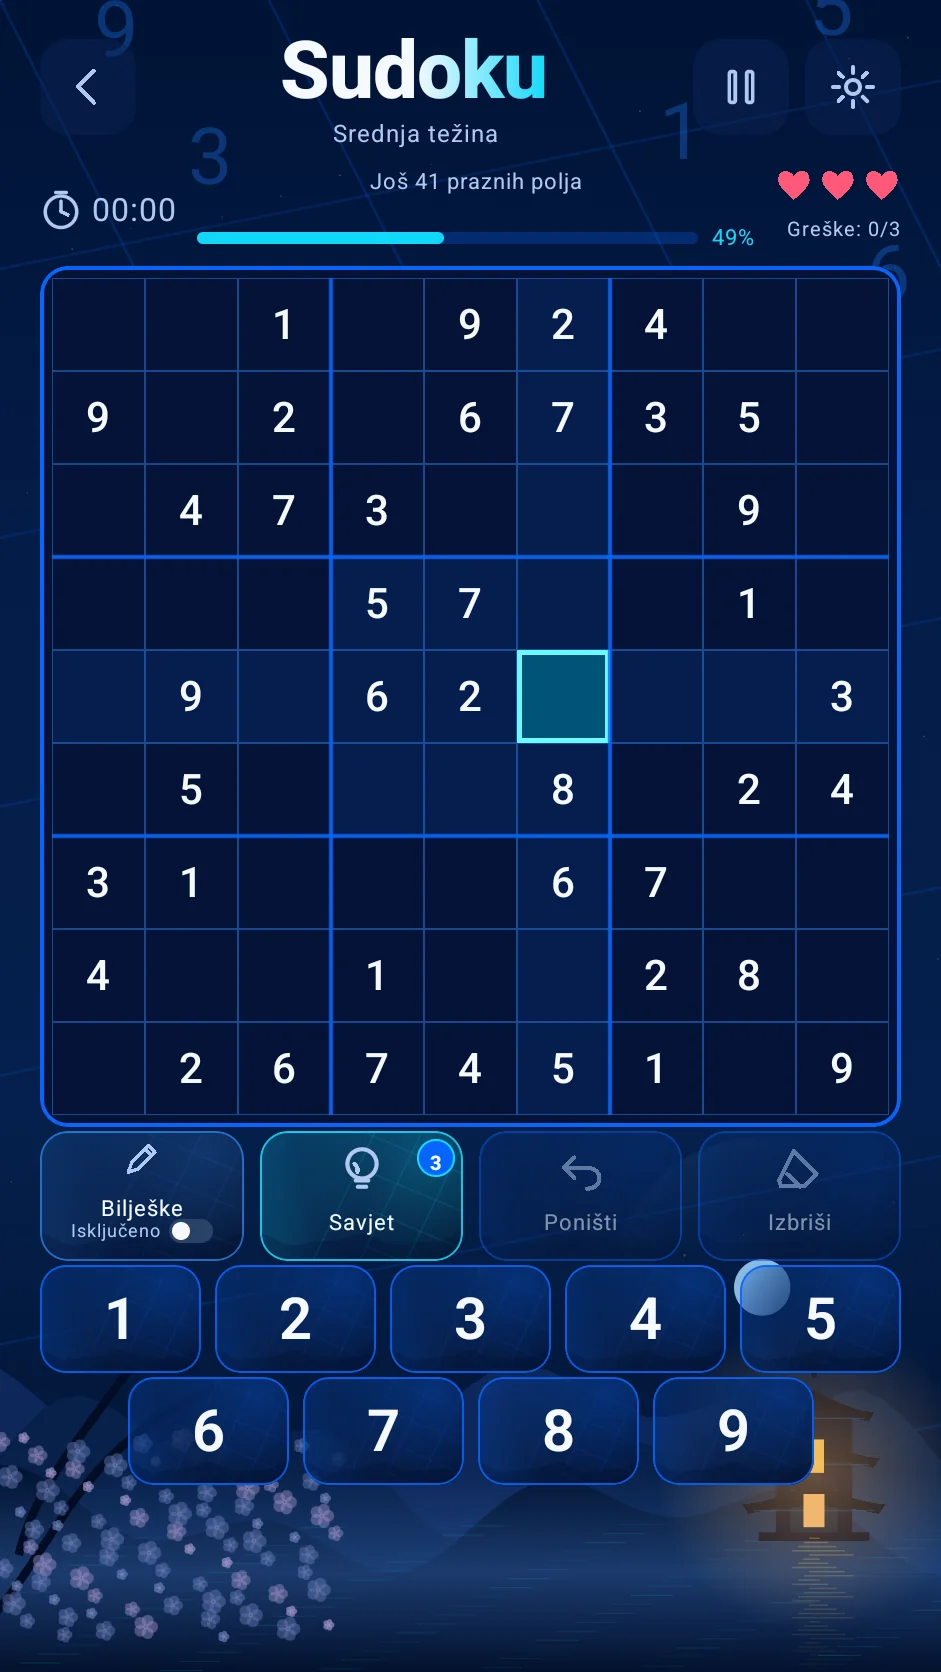
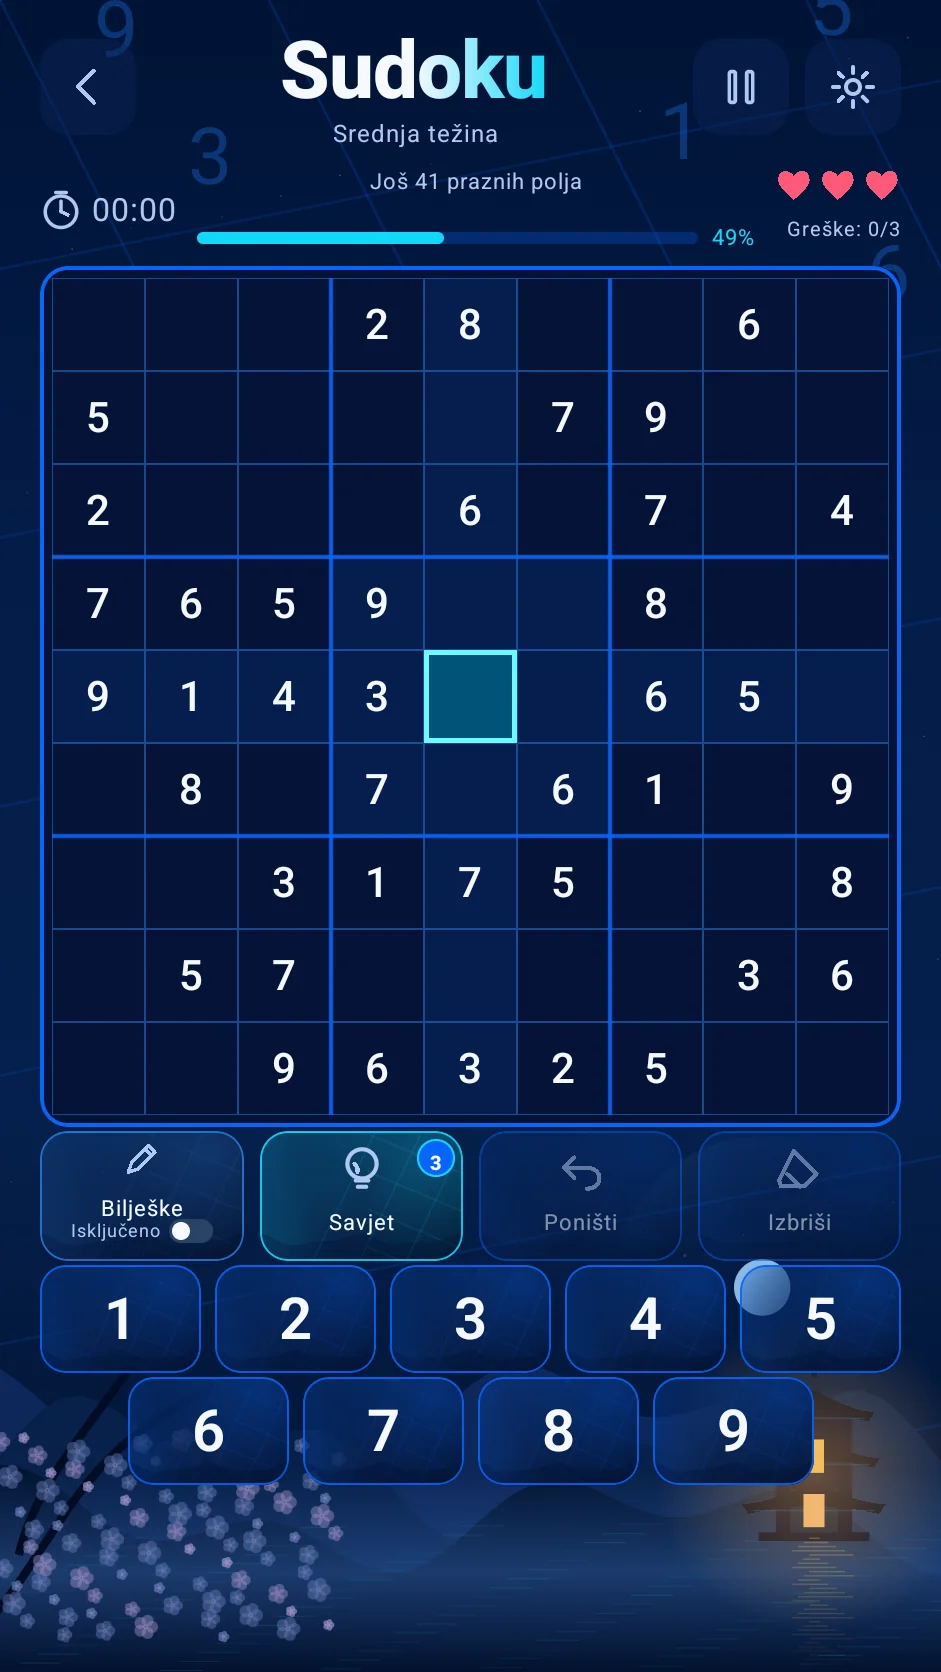
Sudoku 1.0.37: harden encrypted backups and lifecycle recovery (#44)
* Reject empty and inconsistent backups before destructive restore

* Freeze app saves before restore and resume safely after rejected import

* Prevent Activity lifecycle race from overwriting restored Sudoku backups

* Check synchronous save result before exporting or importing user progress

* Block destructive backup import if active game cannot be committed

* Test empty-backup rejection and Activity onStop restore race protection

* Cancel encrypted export if latest active game cannot be saved

* Version Sudoku 1.0.37 with a new Android versionCode 38

* Marketing README updated to Sudoku v1.0.37

* Document strict backup validation and refusal of empty destructive imports

* Clarify safe export errors for profiles without saved games

* Document v1.0.37 recovery transaction safety guarantees

* Document v1.0.37 backup recovery and regressions

* Keep stale controller locked when Activity coroutine is cancelled during restore

* Roll back SharedPreferences in-memory state if backup import disk commit fails

* Regression test restores old puzzle when imported preferences commit fails

* Refresh real v1.0.37 Android screenshots from current QA branch

* docs(marketing): add real Android UI screenshot gallery [skip ci]

---------

diff --git a/app/src/androidTest/java/com/brendigo/sudoku/SudokuBackupTest.kt b/app/src/androidTest/java/com/brendigo/sudoku/SudokuBackupTest.kt
@@ -105,6 +105,127 @@ class SudokuBackupTest {
         }
     }
 
+
+    @Test
+    fun emptyOrMismatchedArchiveCannotEraseExistingProgress() = runBlocking {
+        val (context, prefs) = sandbox("reject_empty")
+        prefs.edit().clear().commit()
+        try {
+            val controller = SudokuController(context)
+            controller.startNew(4, 0)
+            controller.flush()
+            val baseline = SudokuBackup.snapshot(context)
+            val validStats = requireNotNull(baseline["stats"])
+            val invalid = listOf(
+                emptyMap(),
+                mapOf("options" to "{}"),
+                mapOf("stats" to "{}"),
+                mapOf("stats" to validStats, "stats_backup" to """{"played":0,"finished":0}"""),
+            )
+            invalid.forEach { values ->
+                try {
+                    SudokuBackup.restore(context, values)
+                    fail("Invalid backup must never erase current game")
+                } catch (_: IOException) {
+                    // Reject before any preference edit.
+                }
+                try {
+                    SudokuBackup.encrypt(values, password.copyOf())
+                    fail("Invalid backup must never be exported")
+                } catch (_: IOException) {
+                    // A valid key must not authorize a destructive empty archive.
+                }
+                assertEquals(baseline, SudokuBackup.snapshot(context))
+            }
+        } finally {
+            prefs.edit().clear().commit()
+        }
+    }
+
+    @Test
+    fun oldActivityFlushCannotOverwriteRestoredGame() = runBlocking {
+        val (source, sourcePrefs) = sandbox("lock_source")
+        val (target, targetPrefs) = sandbox("lock_target")
+        sourcePrefs.edit().clear().commit()
+        targetPrefs.edit().clear().commit()
+        try {
+            val newProgress = SudokuController(source)
+            newProgress.startNew(6, 0)
+            newProgress.flush()
+            val expected = SudokuBackup.snapshot(source)
+
+            val outgoing = SudokuController(target)
+            outgoing.startNew(4, 1)
+            outgoing.flush()
+            assertTrue(outgoing.prepareForBackupRestore())
+            SudokuBackup.restore(target, expected)
+            // A delayed onStop callback must not write outgoing 4x4 over 6x6.
+            assertTrue(outgoing.flush())
+            assertEquals(expected, SudokuBackup.snapshot(target))
+            assertEquals(6, requireNotNull(SudokuController(target).game).size)
+        } finally {
+            sourcePrefs.edit().clear().commit()
+            targetPrefs.edit().clear().commit()
+        }
+    }
+
+
+    @Test
+    fun failedDiskCommitRollsBackPreviousLocalSnapshot() = runBlocking {
+        val (base, prefs) = sandbox("rollback")
+        prefs.edit().clear().commit()
+        try {
+            val previousController = SudokuController(base)
+            previousController.startNew(4, 1)
+            previousController.flush()
+            val original = SudokuBackup.snapshot(base)
+
+            val (source, sourcePrefs) = sandbox("rollback_source")
+            sourcePrefs.edit().clear().commit()
+            try {
+                val sourceController = SudokuController(source)
+                sourceController.startNew(9, 0)
+                sourceController.flush()
+                val candidate = SudokuBackup.snapshot(source)
+                assertNotEquals(original, candidate)
+
+                // Simulate a commit that updates the in-memory preferences,
+                // but reports a disk write failure to the import caller.
+                var firstCommit = true
+                val failing = object : ContextWrapper(base) {
+                    override fun getApplicationContext(): Context = this
+                    override fun getSharedPreferences(name: String?, mode: Int):
+                        SharedPreferences = object : SharedPreferences by prefs {
+                        override fun edit(): SharedPreferences.Editor {
+                            val underlying = prefs.edit()
+                            return object : SharedPreferences.Editor by underlying {
+                                override fun commit(): Boolean {
+                                    val result = underlying.commit()
+                                    return if (firstCommit) {
+                                        firstCommit = false
+                                        false
+                                    } else result
+                                }
+                            }
+                        }
+                    }
+                }
+                try {
+                    SudokuBackup.restore(failing, candidate)
+                    fail("Failed commit must not report a successful import")
+                } catch (_: IOException) {
+                    // The original snapshot must survive the failed import.
+                }
+                assertEquals(original, SudokuBackup.snapshot(base))
+                assertEquals(4, requireNotNull(SudokuController(base).game).size)
+            } finally {
+                sourcePrefs.edit().clear().commit()
+            }
+        } finally {
+            prefs.edit().clear().commit()
+        }
+    }
+
     @Test
     fun wrongPasswordTamperingAndBadDataNeverReplaceExistingProgress() = runBlocking {
         val (target, prefs) = sandbox("invalid")

diff --git a/app/src/main/java/com/brendigo/sudoku/ui/SudokuBackupFlow.kt b/app/src/main/java/com/brendigo/sudoku/ui/SudokuBackupFlow.kt
@@ -25,6 +25,7 @@ import androidx.compose.ui.text.input.PasswordVisualTransformation
 import androidx.compose.ui.unit.dp
 import com.brendigo.sudoku.data.SudokuBackup
 import com.brendigo.sudoku.data.SudokuController
+import kotlinx.coroutines.CancellationException
 import kotlinx.coroutines.Dispatchers
 import kotlinx.coroutines.launch
 import kotlinx.coroutines.withContext
@@ -55,8 +56,10 @@ fun SudokuBackupFlow(
         password = ""
         if (uri == null) {
             key.fill('\u0000')
+        } else if (!controller.flush()) {
+            key.fill('\u0000')
+            controller.showMessage("Nije moguće sigurno spremiti napredak; izvoz je otkazan.")
         } else {
-            controller.flush()
             busy = true
             scope.launch {
                 try {
@@ -73,7 +76,7 @@ fun SudokuBackupFlow(
                     }
                     controller.showMessage("Šifrirana sigurnosna kopija uspješno je spremljena.")
                 } catch (_: Exception) {
-                    controller.showMessage("Izvoz nije uspio. Provjeri slobodan prostor i pokušaj ponovno.")
+                    controller.showMessage("Izvoz nije uspio. Provjeri postoji li spremljen napredak i dovoljno slobodnog prostora.")
                 } finally {
                     busy = false
                 }
@@ -220,6 +223,16 @@ fun SudokuBackupFlow(
                     enabled = !busy,
                     onClick = {
                         val values = imported ?: return@TextButton
+                        val activity = context as? Activity ?: run {
+                            controller.showMessage("Vraćanje podataka zahtijeva aktivan zaslon aplikacije.")
+                            return@TextButton
+                        }
+                        // Lock the old controller synchronously BEFORE any disk write;
+                        // Activity.onStop can be called while SAF/IO is running.
+                        if (!controller.prepareForBackupRestore()) {
+                            controller.showMessage("Spremanje trenutačne igre nije uspjelo. Uvoz je otkazan.")
+                            return@TextButton
+                        }
                         busy = true
                         scope.launch {
                             try {
@@ -228,11 +241,15 @@ fun SudokuBackupFlow(
                                 }
                                 imported = null
                                 showConfirm = false
-                                // onStop() must not overwrite the imported game.
-                                controller.prepareForBackupRestore()
-                                (context as? Activity)?.recreate()
+                                activity.recreate()
+                            } catch (cancelled: CancellationException) {
+                                // A destroyed Activity may cancel the awaiting coroutine
+                                // even after the IO thread committed restored progress.
+                                // Its stale controller must never resume writing.
+                                throw cancelled
                             } catch (_: Exception) {
-                                controller.showMessage("Nije uspjelo vraćanje kopije. Postojeći napredak nije namjerno brisan.")
+                                controller.cancelBackupRestore()
+                                controller.showMessage("Vraćanje kopije nije uspjelo. Provjeri dostupnu pohranu.")
                             } finally {
                                 busy = false
                             }

diff --git a/app/src/main/java/com/brendigo/sudoku/data/SudokuBackup.kt b/app/src/main/java/com/brendigo/sudoku/data/SudokuBackup.kt
@@ -145,16 +145,38 @@ object SudokuBackup {
     fun restore(context: Context, values: Map<String, String>) {
         validate(values)
         val prefs = preferences(context)
+        // SharedPreferences can update its in-memory map even if disk commit
+        // returns false. Keep an independent snapshot to undo that mutation.
+        val previous = keys.mapNotNull { key ->
+            prefs.getString(key, null)?.let { key to it }
+        }.toMap()
         val editor = prefs.edit()
         for (key in keys) editor.remove(key)
         values.forEach { (key, value) -> editor.putString(key, value) }
-        if (!editor.commit()) throw IOException("Nije uspjelo spremanje sigurnosne kopije.")
+        if (!runCatching { editor.commit() }.getOrDefault(false)) {
+            val rollback = prefs.edit()
+            keys.forEach { rollback.remove(it) }
+            previous.forEach { (key, value) -> rollback.putString(key, value) }
+            if (!runCatching { rollback.commit() }.getOrDefault(false)) {
+                throw IOException("Zapis i oporavak kopije nisu uspjeli; provjeri pohranu.")
+            }
+            throw IOException("Spremanje kopije nije uspjelo; prethodni podaci su vraćeni.")
+        }
     }
 
     private fun validate(values: Map<String, String>) {
         if (values.keys.any { it !in keys }) throw IOException("Nepoznati podaci u kopiji.")
         if (values.values.sumOf { it.length } > MAX_PLAIN)
             throw IOException("Sigurnosna kopija je prevelika.")
+        // An authenticated archive can still be empty or contain only options.
+        // Never let such a file silently erase games and achievements.
+        if (values["stats"] == null && values["stats_backup"] == null) {
+            throw IOException("Kopija ne sadrži podatke o napretku.")
+        }
+        if (values["stats"] != null && values["stats_backup"] != null &&
+            values["stats"] != values["stats_backup"]) {
+            throw IOException("Nekonzistentni zapisi statistike u kopiji.")
+        }
         try {
             listOf("game", "regular_game", "daily_game").forEach { key ->
                 values[key]?.let { raw -> validateGame(JSONObject(raw), key) }
@@ -241,6 +263,10 @@ object SudokuBackup {
     }
 
     private fun validateStats(stats: JSONObject) {
+        if (!stats.has("played") || !stats.has("finished") ||
+            stats.optInt("finished", -1) > stats.optInt("played", -1)) {
+            throw IOException("Nedostaje vjerodostojna statistika u kopiji.")
+        }
         for (key in listOf("played", "finished", "flawless", "dailyWins", "dailyPoints",
             "streak", "bestStreak", "noHintWins", "fastWins", "longWins")) {
             if (stats.optInt(key) < 0) throw IOException("Nevaljana statistika.")

diff --git a/app/src/main/java/com/brendigo/sudoku/data/SudokuController.kt b/app/src/main/java/com/brendigo/sudoku/data/SudokuController.kt
@@ -163,20 +163,30 @@ class SudokuController(context: Context) {
     }
 
     /** Persist a just-entered move when Android moves the activity into background. */
-    fun flush() {
-        if (importingBackup) return
-        // Activity.onStop: commit synchronously so Android process death does
-        // not race a queued asynchronous save. Never clear a failed save.
-        saveGame(synchronous = true)
+    fun flush(): Boolean {
+        if (importingBackup) return true
+        // A failed commit must prevent an export/restore from using older data.
+        return saveGame(synchronous = true)
     }
 
     fun clearToast() {
         toast = ""
     }
 
-    /** Prevent the outgoing Activity from overwriting a restored backup. */
-    fun prepareForBackupRestore() {
+    /**
+     * Freeze persistent writes before the restore transaction starts.
+     * Otherwise onStop() can race the imported SharedPreferences commit and
+     * overwrite it with an older in-memory game.
+     */
+    fun prepareForBackupRestore(): Boolean {
+        if (!flush()) return false
         importingBackup = true
+        return true
+    }
+
+    /** A failed import must not permanently disable autosaving. */
+    fun cancelBackupRestore() {
+        importingBackup = false
     }
 
     fun showMessage(message: String) {
@@ -595,9 +605,9 @@ class SudokuController(context: Context) {
         editor.putString("stats_backup", snapshot)
     }
 
-    private fun saveGame(synchronous: Boolean = false) {
-        if (importingBackup) return
-        val s = game ?: return
+    private fun saveGame(synchronous: Boolean = false): Boolean {
+        if (importingBackup) return true
+        val s = game ?: return true
         val snapshot = JSONObject().apply {
             put("size", s.size)
             put("boxRows", s.boxRows)
@@ -633,7 +643,12 @@ class SudokuController(context: Context) {
         writeStats(editor)
         if (s.daily) editor.putString("daily_game", snapshot).putString("daily_undo", history)
         else editor.putString("regular_game", snapshot).putString("regular_undo", history)
-        if (synchronous) editor.commit() else editor.apply()
+        return runCatching {
+            if (synchronous) editor.commit() else {
+                editor.apply()
+                true
+            }
+        }.getOrDefault(false)
     }
 
     private fun readGame(key: String = "game"): Session? {

diff --git a/CHANGELOG.md b/CHANGELOG.md
@@ -1,3 +1,13 @@
+## 1.0.37 — Zaštita napretka pri uvozu i izvozu
+
+- Šifrirana sigurnosna kopija više ne smije biti prazna ili sadržavati samo postavke bez provjerljive statistike; takve datoteke ne mogu izbrisati postojeći napredak.
+- Odbijaju se nepotpuni ili proturječni primarni i rezervni zapisi statistike prije zamjene lokalnog stanja.
+- Uvoz zaključava lokalno spremanje **prije** upisivanja vraćene kopije, kako asinkroni Android `onStop` ne bi prepisao obnovljenu partiju starom memorijskom verzijom.
+- Neuspjeli uvoz ponovno omogućuje automatsko spremanje. Neuspješan sinkroni zapis trenutačne igre blokira uvoz i izvoz.
+- Novi instrumentacijski regresijski testovi: prazna i međusobno proturječna kopija, očuvanje trenutačne igre nakon odbijenog uvoza te zaštita od kasnog upisa stare Activity.
+- Osam stvarnih screenshotova iz Android emulatora i nastavak mjerljive QA usporedbe. Izgled i postojeća funkcionalnost zadržani; puni pixel-perfect 1:1 još nije potvrđen.
+- `versionName=1.0.37`, `versionCode=38`. Objavljeni APK/AAB ostaju testni ako nema pouzdanog izdavačkog potpisa.
+
 ## 1.0.36 — Sigurnosna kopija, privatnost i oporavak
 
 - Dodan korisnički izvoz i uvoz **šifrirane offline kopije** putem Android Storage Access Frameworka, bez internetske veze ili širokih dozvola za pohranu.

diff --git a/README.md b/README.md
@@ -6,7 +6,7 @@
 
 **Premium Sudoku za Android • Na hrvatskom • Bez interneta • Bez oglasa**
 
-**Izdanje 1.0.36** · Android 8.0+ · Bez oglasa · Bez interneta
+**Izdanje 1.0.37** · Android 8.0+ · Bez oglasa · Bez interneta
 
 <img src="branding/sudoku-feature-graphic.svg" alt="Sudoku by Brendigo — plava neonska mreža, noćne planine i mjesečina" width="880" />
 
@@ -132,4 +132,4 @@ s internetom: deinstalacija ili kvar uređaja mogu ga trajno ukloniti.
 
 ### Privatna sigurnosna kopija
 
-Uz Sudoku 1.0.36 možete ručno izvesti lokalni napredak u šifriranu `.sudoku` datoteku i vratiti ga uz svoju lozinku i izričitu potvrdu. Kopija se sprema tamo gdje sami odaberete u Androidovu pregledniku datoteka — aplikacija ne zahtijeva internetsku vezu niti račun. Zaštitite lozinku: nije moguće obnoviti zaboravljenu lozinku. Sve slike zaslona iznad stvarne su snimke emulatora, ne dizajnerski prikazi.
+Uz Sudoku 1.0.37 možete ručno izvesti lokalni napredak u šifriranu `.sudoku` datoteku i vratiti ga uz svoju lozinku i izričitu potvrdu. Kopija se sprema tamo gdje sami odaberete u Androidovu pregledniku datoteka — aplikacija ne zahtijeva internetsku vezu niti račun. Zaštitite lozinku: nije moguće obnoviti zaboravljenu lozinku. Sve slike zaslona iznad stvarne su snimke emulatora, ne dizajnerski prikazi.

diff --git a/PRIVACY.md b/PRIVACY.md
@@ -43,8 +43,8 @@ Izvoz može završiti u direktoriju ili servisu koji korisnik sam odabere,
 uključujući eventualnu cloud pohranu pružatelja dokumenata izvan
 kontrole aplikacije. Brendigo datoteku ne šalje samoinicijativno.
 
-Prije uvoza aplikacija provjerava format, integritet i podatke te zahtijeva
-jasnu potvrdu zamjene postojećih rezultata. Kriva lozinka ili nevaljan format
+Prije uvoza aplikacija provjerava format, integritet, prisutnost statistike i podatke te zahtijeva
+jasnu potvrdu zamjene postojećih rezultata. Prazne, nepotpune ili međusobno proturječne sigurnosne kopije odbijaju se prije zamjene napretka. Kriva lozinka ili nevaljan format
 ne smiju uzrokovati namjernu promjenu lokalnog stanja. Gubitak lozinke,
 datoteke, brisanje aplikacije bez izvoza ili kvar uređaja i dalje mogu
 uzrokovati trajni gubitak napretka.

diff --git a/docs/encrypted-offline-backup-v1.0.36.md b/docs/encrypted-offline-backup-v1.0.36.md
@@ -30,6 +30,8 @@ Nije moguće jamčiti oporavak izgubljene datoteke ili neispravne pohrane.
 
 ## Zaštita od kvarova
 
+Od verzije 1.0.37 prazne i međusobno proturječne kopije statistike odbacuju se prije bilo kakve zamjene. Ako je aktualnu partiju nemoguće sinkrono spremiti, uvoz ili izvoz se otkazuje. Zaštita od upisa starog Activity stanja uključuje se **prije** vraćanja datoteke, a nakon neuspjeha ponovno se omogućuje normalno lokalno spremanje.
+
 Prije promjene lokalnog stanja provjeravaju se duljine, Sudoku dimenzije
 (4×4, 6×6, 9×9), valjana rješenja, konzistentnost zadanih polja,
 bilješke, pogreške, savjeti, datumi, statistika, granice
